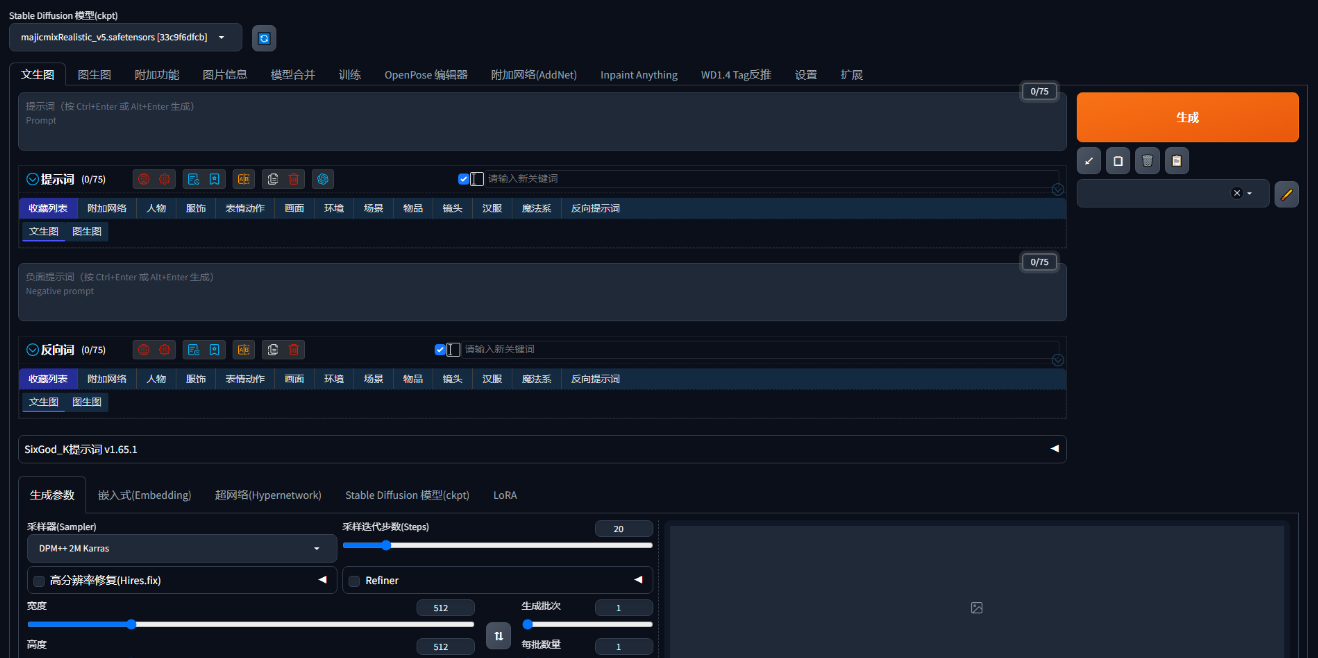
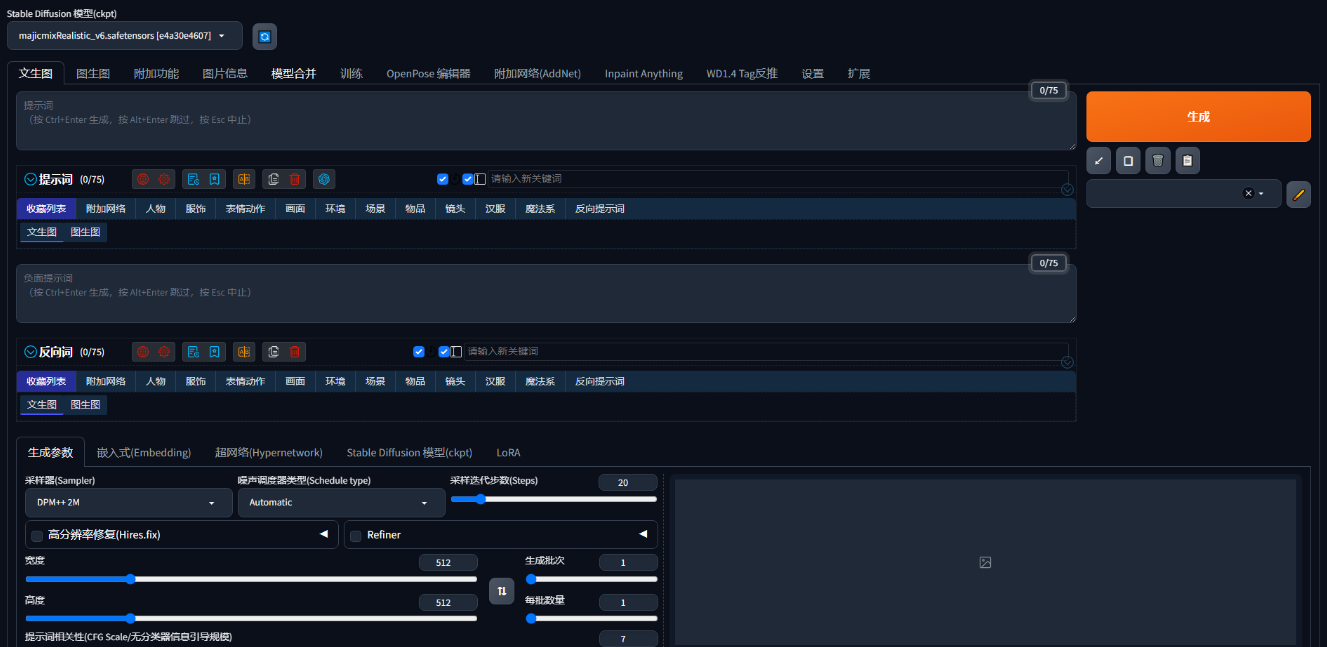
update

diff --git a/README.md b/README.md
@@ -18,27 +18,23 @@ docker build -t anaconda3:2023.03-1 .
 
 
 ### 三、构建webui（stable-diffusion-webui）镜像
-#### 1、提前下载`torch-2.0.1+cu118-cp310-cp310-linux_x86_64.whl`包到torch目录下，加速镜像构建，命令：
+#### 1、提前下载`torch-2.1.2+cu121-cp310-cp310-linux_x86_64.whl`包到torch目录下，加速镜像构建，命令：
 ```shell
-curl -O https://download.pytorch.org/whl/cu118/torch-2.0.1%2Bcu118-cp310-cp310-linux_x86_64.whl
-mv torch-2.0.1%2Bcu118-cp310-cp310-linux_x86_64.whl torch-2.0.1+cu118-cp310-cp310-linux_x86_64.whl
+curl -o torch-2.1.2+cu121-cp310-cp310-linux_x86_64.whl -O https://download.pytorch.org/whl/cu121/torch-2.1.2%2Bcu121-cp310-cp310-linux_x86_64.whl
 ```
 
 #### 2、构建webui镜像：
 ```shell
-docker build -t webui:1.7.0 .
+docker build -t webui:1.9.4 .
 ```
 ```shell
-注意，构建过程中如果出现问题，请编辑Dockerfile添加以下内容，开启加速：
+注意，构建过程中如果出现问题，请编辑Dockerfile添加以下配置，开启加速：
 RUN set -x \
-        ...
-        && python -m venv venv \
-        && . venv/bin/activate \
-        && echo ". stable-diffusion-webui/venv/bin/activate" >> ~/.bashrc \
-        && export HTTP_PROXY="http://x.x.x.x:1080" \                         # 添加此项
-        && export HTTPS_PROXY="http://x.x.x.x:1080" \                        # 添加此项
-        && export NO_PROXY="localhost,127.0.0.1" \                           # 添加此项
-        && pip install --upgrade pip \
+        && export HTTP_PROXY="http://x.x.x.x:1080" \                    # 添加此项
+        && export HTTPS_PROXY="http://x.x.x.x:1080" \                   # 添加此项
+        && export NO_PROXY="localhost,127.0.0.1" \                      # 添加此项
+        && cd ~ \
+        && . anaconda3/etc/profile.d/conda.sh \
         ...
 ```
 
@@ -57,9 +53,9 @@ docker build -t webui .
 
 #### 2、上传模型到`models/Stable-diffusion/`目录下：
 ```shell
-ls -lh models/Stable-diffusion/
+# ls -lh models/Stable-diffusion/
 total 2.3G
--rwxr-xr-x 1 root root 2.3G Dec 14 17:01 majicmixRealistic_v5.safetensors
+-rwxr-xr-x 1 root root 2.3G Jun  6 15:36 majicmixRealistic_v6.safetensors
 ```
 
 
@@ -68,7 +64,7 @@ total 2.3G
 ```shell
 docker exec -it webui bash
 cd stable-diffusion-webui
-./webui.sh --xformers --listen --skip-version-check --enable-insecure-extension-access --theme=dark
+./start.sh
 ```
 
 #### 2、通过浏览器访问`http://x.x.x.x:7860`打开`stable-diffusion-webui`界面：

diff --git a/setup3-extensions/README.md b/setup3-extensions/README.md
@@ -60,7 +60,3 @@
   使用 sd-script 脚本训练的lora模型
 
 
-- https://github.com/Gourieff/sd-webui-reactor </p>
-  换脸
-
-
